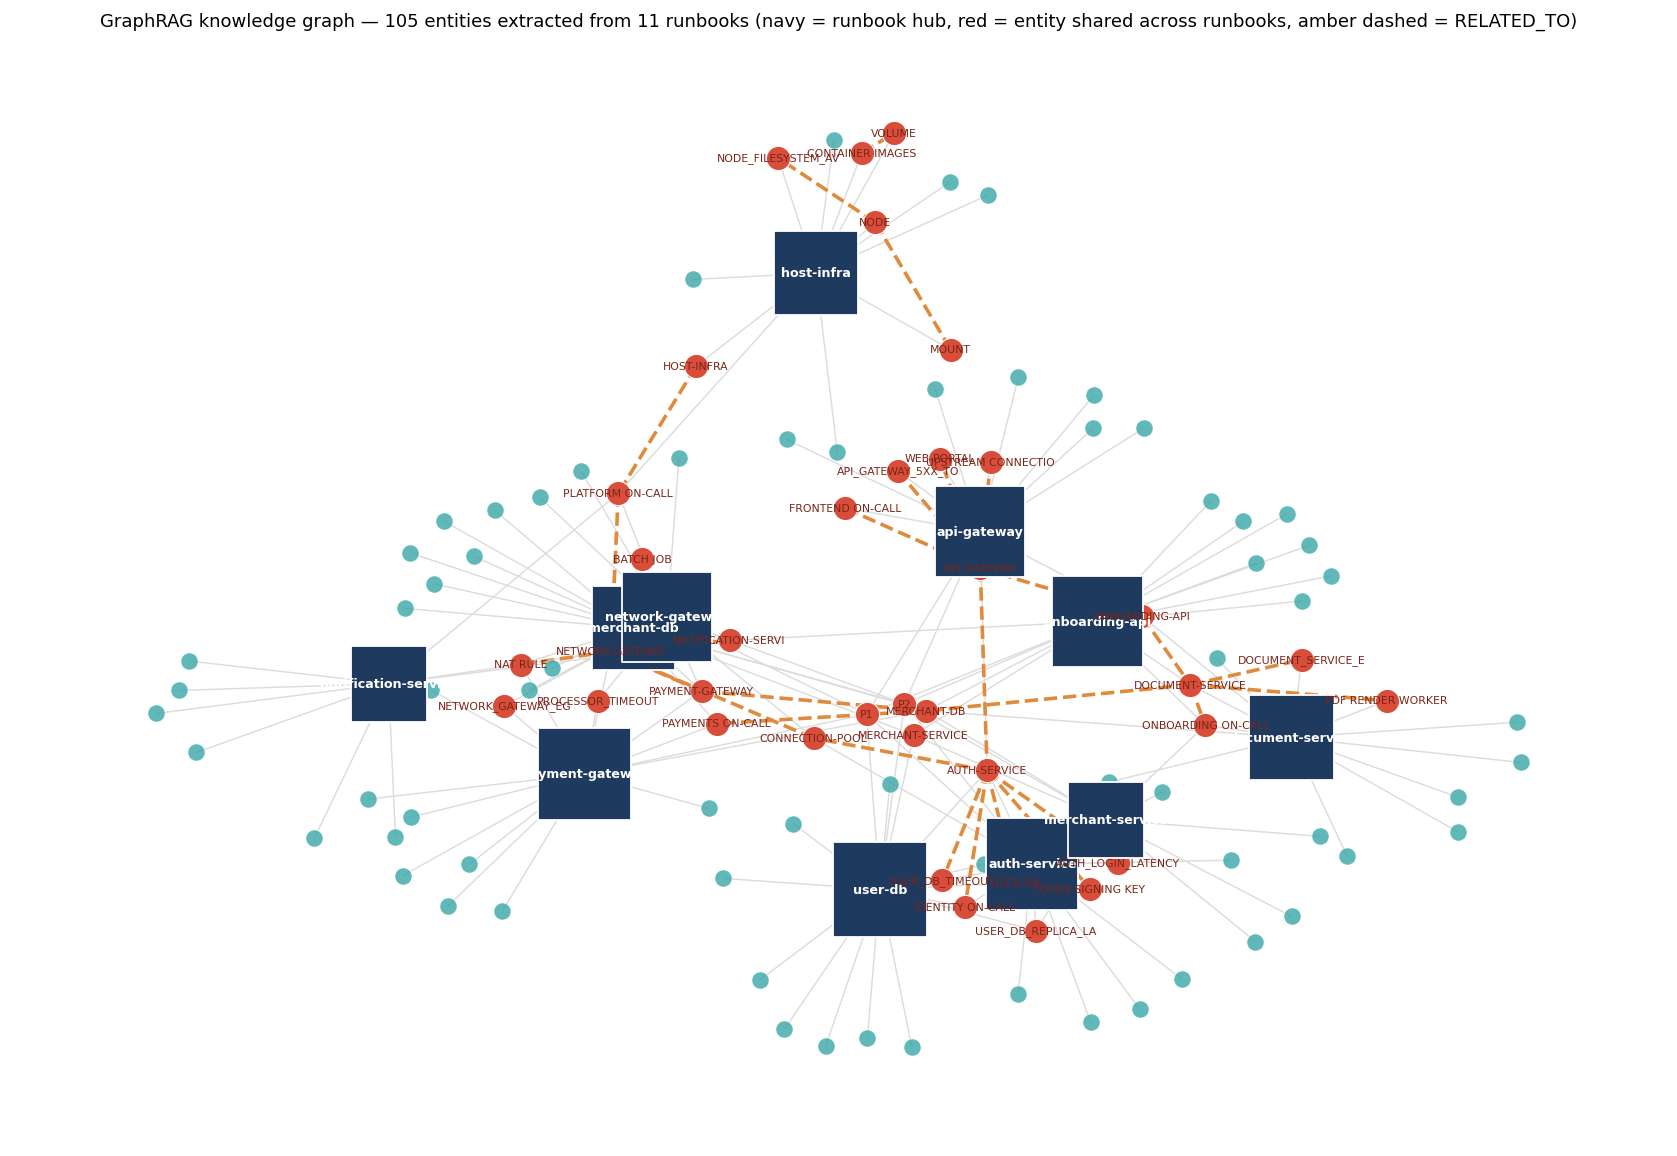
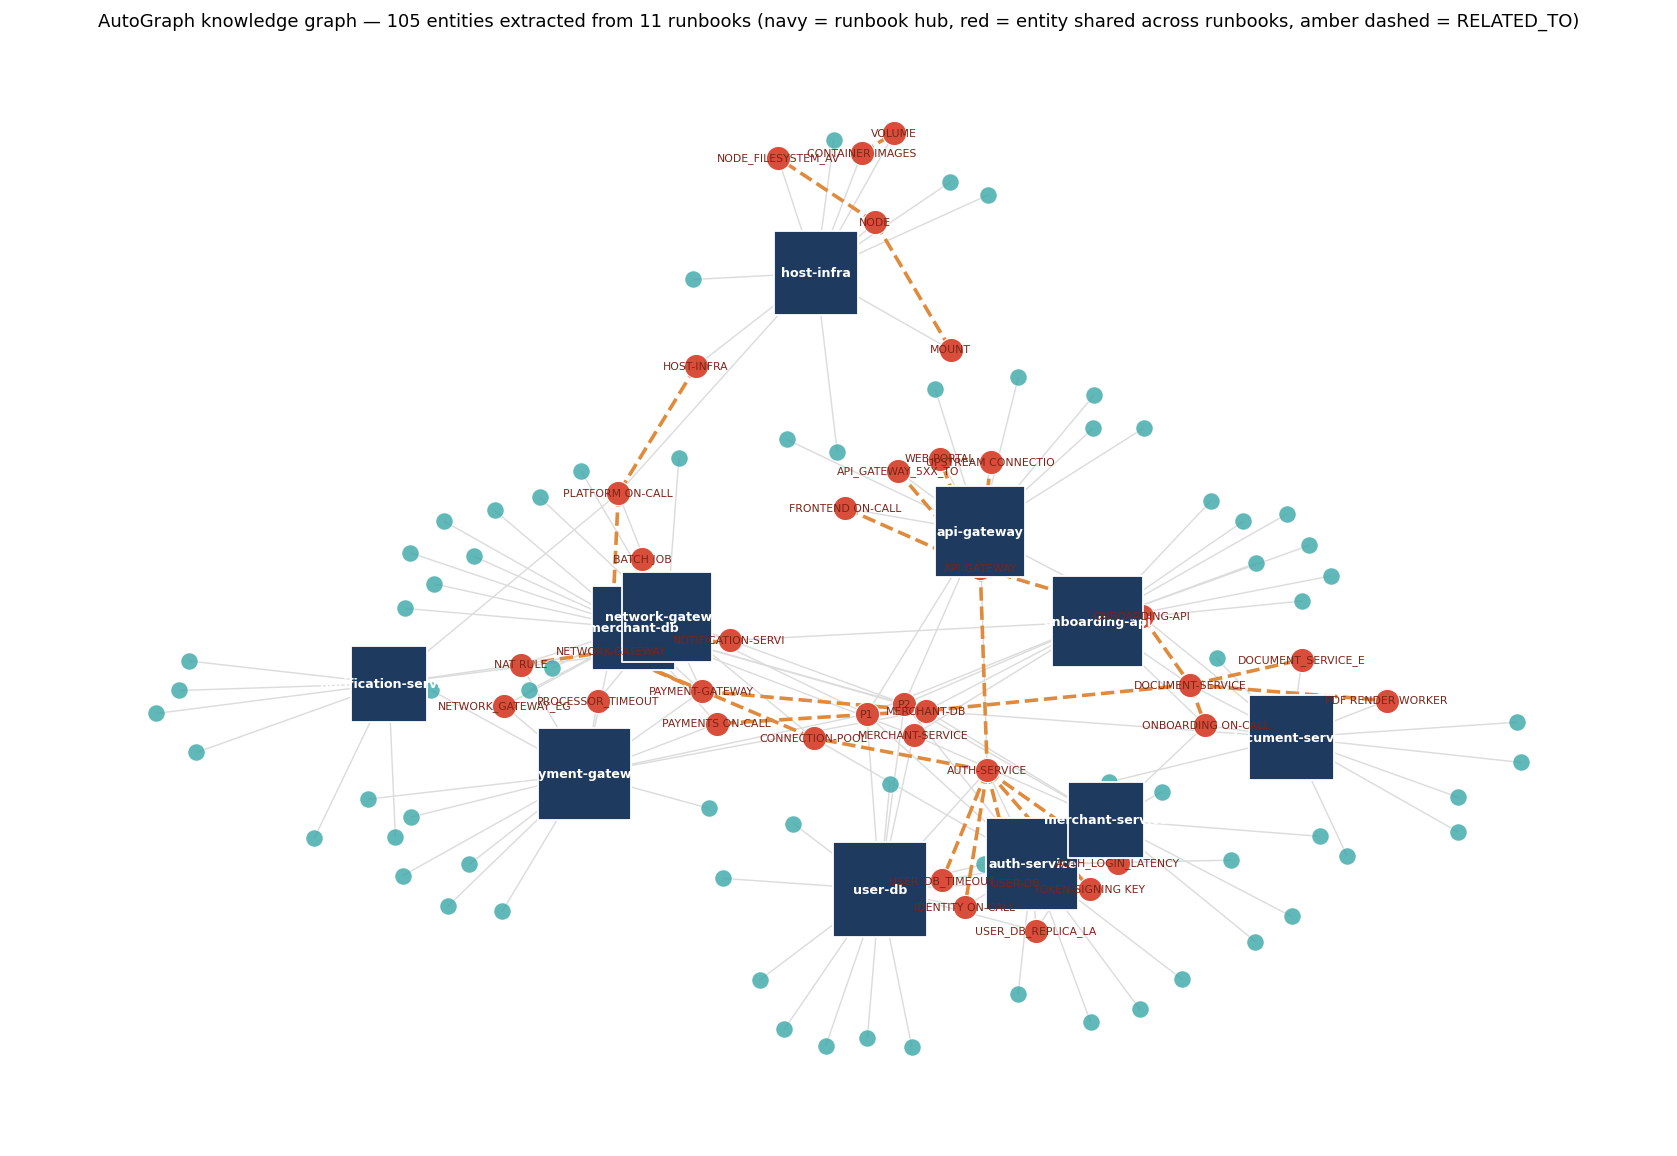
Lead with AutoGraph in prose; keep GraphRAG only for literal API names
README + code comments: 'GraphRAG knowledge graph' -> 'AutoGraph knowledge graph',
'GraphRAG Retriever/answer' -> 'the Retriever / cited answer'. The literal identifiers
stay (the /graphrag-query endpoint, the arangodb-graphrag-retriever serviceType,
graphrag.py, GRAPHRAG_PROJECT) -- those are real API/service names, and AutoGraph
orchestrates a GraphRAG build under the hood. Regenerated knowledge-graph.png title.

Changed region(s): [[0.062, 0.0, 0.9302, 0.0311]]

diff --git a/src/resolver.py b/src/resolver.py
@@ -71,12 +71,12 @@ def resolve(alert):
 
 
 def answer(payload, alert_text=None, jwt=None):
-    """Cited next-step from the GraphRAG Retriever, grounded in the runbook knowledge graph.
+    """Cited next-step from the Retriever, grounded in the runbook knowledge graph.
 
     Uses Unified Search (query_type 3), which returns the cited answer on this platform. The
     query foregrounds the affected service and the alert's own symptom text so retrieval lands on
     that service's runbook; we then pin the exact root-service runbook (fetched from the KG by
-    content) as citation #1 and append GraphRAG's related blast-radius runbooks.
+    content) as citation #1 and append the Retriever's related blast-radius runbooks.
     """
     jwt = jwt or token()
     service = payload["root_service"]
@@ -97,7 +97,7 @@ def answer(payload, alert_text=None, jwt=None):
     related_citations = metadata.get("citation_mapping", {})
 
     # Ground the answer in the exact runbook for the root service the AQL query pinpointed
-    # (precise multimodel signal), then append GraphRAG's related blast-radius runbooks.
+    # (precise multimodel signal), then append the Retriever's related blast-radius runbooks.
     # AutoGraph citations carry no citable_url, so dedup on chunk_id / content, not URL.
     citations = {}
     index = 1
@@ -121,7 +121,7 @@ def answer(payload, alert_text=None, jwt=None):
 def corroborated(payload, cited):
     """Independent corroboration: does a cited runbook reference the root or an affected service?
 
-    The structured payload (AQL) and the cited answer (GraphRAG) are produced by two separate
+    The structured payload (AQL) and the cited answer (Retriever) are produced by two separate
     surfaces; this checks they converge on the same incident.
     """
     services = {payload["root_service"], *(svc["service"] for svc in payload.get("affected_services", []))}
@@ -145,7 +145,7 @@ def evaluate(alerts, jwt=None):
 
     Each row carries what the system actually delivered (most similar incident, blast radius,
     on-call owner, the runbook it grounded on, the next step) plus the two timings: the
-    multimodel query (one AQL round trip) and the cited GraphRAG answer. Feeds the results
+    multimodel query (one AQL round trip) and the cited Retriever answer. Feeds the results
     table and the results figure -- the final showcase.
     """
     jwt = jwt or token()

diff --git a/src/viz.py b/src/viz.py
@@ -2,7 +2,7 @@
 
   assets/architecture.png      -- the two-surfaces-one-platform schematic
   assets/affected-subgraph.png -- the real affected-service subgraph for the sample alert
-  assets/knowledge-graph.png   -- a sample of the GraphRAG knowledge graph (entities + relations)
+  assets/knowledge-graph.png   -- a sample of the AutoGraph knowledge graph (entities + relations)
 """
 import json
 import os
@@ -77,7 +77,7 @@ def fig_affected_subgraph(alert_path="data/alert.sample.json"):
 
 
 def fig_kg_sample():
-    """The real GraphRAG KG: entities (MENTIONED_IN chunks, PART_OF documents) clustered by
+    """The real AutoGraph KG: entities (MENTIONED_IN chunks, PART_OF documents) clustered by
     runbook, with the few direct RELATED_TO entity-entity edges overlaid. Runbooks are hubs."""
     import re
     db = kg_db()
@@ -131,7 +131,7 @@ def fig_kg_sample():
     nx.draw_networkx_labels(G, pos, {d: d.replace(".md", "") for d in docs}, font_size=7,
                             font_color="white", font_weight="bold")
     nx.draw_networkx_labels(G, pos, {n: n[:18] for n in bridge}, font_size=6, font_color="#7a2418")
-    plt.title(f"GraphRAG knowledge graph — {len([n for n in G.nodes if not is_doc[n]])} entities extracted "
+    plt.title(f"AutoGraph knowledge graph — {len([n for n in G.nodes if not is_doc[n]])} entities extracted "
               f"from {len(docs)} runbooks (navy = runbook hub, red = entity shared across runbooks, "
               f"amber dashed = RELATED_TO)", fontsize=10)
     plt.axis("off")

diff --git a/src/run_all.py b/src/run_all.py
@@ -1,7 +1,7 @@
 """Run the whole pipeline end to end, the same logic the notebook walks through.
 
   1. Multimodel core  -> incidents + alerts + service topology in Arango
-  2. GraphRAG KG       -> runbooks imported into a knowledge graph (skip-if-built)
+  2. AutoGraph KG      -> runbooks built into a knowledge graph (skip-if-built)
   3. Combined resolve  -> one alert -> structured payload + cited, grounded next-step
 
 Run:  python run_all.py [alert.json]
@@ -18,7 +18,7 @@ def main():
     print("== 1. Multimodel core (incidents + alerts + topology) ==")
     ingest.main()
 
-    print("\n== 2. GraphRAG knowledge graph (runbooks) ==")
+    print("\n== 2. AutoGraph knowledge graph (runbooks) ==")
     graphrag_ingest.main()  # skip-if-built; pass --reset to rebuild
 
     print("\n== 3. Combined resolution ==")

diff --git a/README.md b/README.md
@@ -38,7 +38,7 @@ database, no stitched-together pipeline.
 - **`cited_answer`**: a natural-language next step grounded in the runbook knowledge graph, with the
   **exact root-service runbook as the primary citation** plus the related blast-radius runbooks.
 - **`corroboration`**: an independent check that the cited runbooks fall inside the affected subgraph,
-  so the precise AQL surface and the GraphRAG surface agree.
+  so the precise AQL surface and the semantic retrieval surface agree.
 
 Across the 8 demo alerts (`data/alerts.json`), the primary citation is the correct service's runbook
 8 times out of 8, and corroboration is 8 out of 8. The full table is under [Results](#results).
@@ -84,13 +84,13 @@ The marquee query (`resolver.py:MARQUEE`), one store, one language, three moves:
 ## Results
 Every alert in `data/alerts.json`, end to end. Section 7 of the notebook runs `evaluate()` over the
 whole set and times both halves of each resolution: the multimodel query (one AQL round trip) and the
-cited GraphRAG answer.
+cited answer from the Retriever.
 
 ![Results: per-alert multimodel-query latency, 8/8 grounded on the correct runbook, 8/8 corroborated](assets/results.png)
 
 For every alert the primary citation lands on the correct service runbook (8/8), the two surfaces
 corroborate (8/8), and the multimodel query itself returns in a few milliseconds; the cited answer
-adds one GraphRAG retrieval round trip on top. The per-alert table (similar incident, blast radius,
+adds one Retriever round trip on top. The per-alert table (similar incident, blast radius,
 on-call owner, runbook, both timings) renders in the notebook.
 
 ## Setup
@@ -147,7 +147,7 @@ incident_resolution.ipynb   narrated, executed walkthrough of the same flow (out
 data/topology.json     curated service topology (12 services, 13 dependencies, 5 teams)
 data/alerts.json       8 synthetic alerts; data/alert.sample.json is the headline P1
 data/runbooks/         hand-authored runbooks (the cited knowledge-graph corpus)
-docs/                  provisioning walkthrough for the GraphRAG services
+docs/                  provisioning walkthrough for the AutoGraph services
 assets/                architecture diagram + the data-driven figures (subgraph, KG, results)
 ```
 